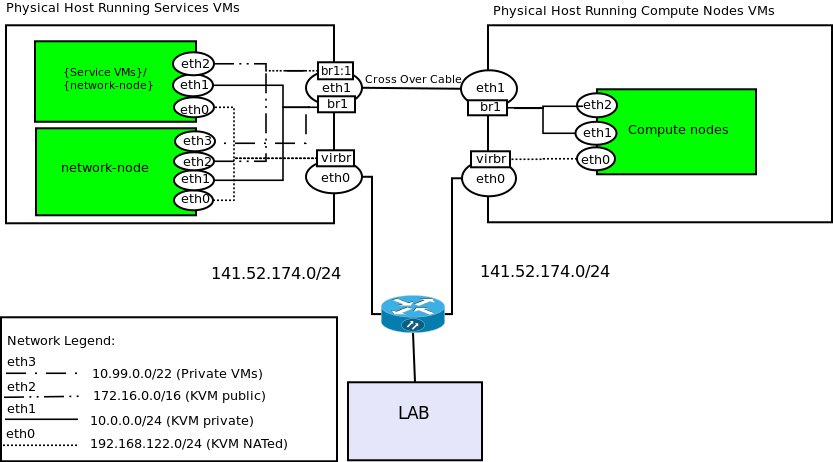
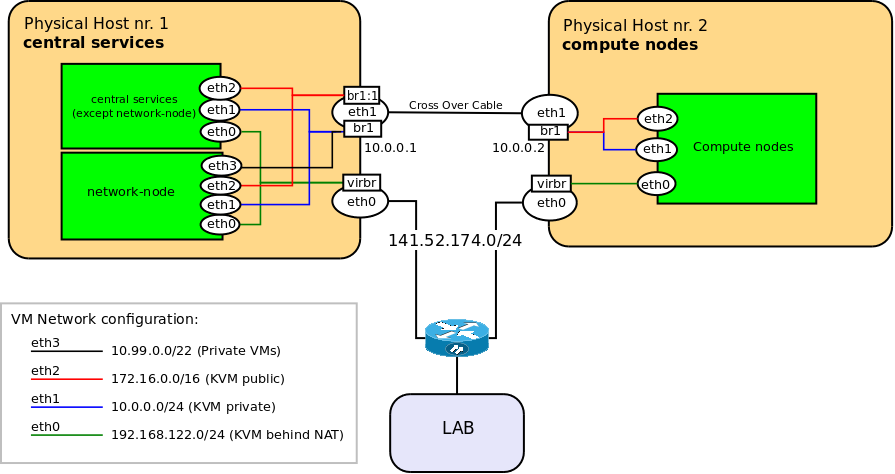
Cosmetic changes

diff --git a/tutorial/tutorial.rst b/tutorial/tutorial.rst
@@ -2,7 +2,8 @@ GridKa School 2013 - Training Session on OpenStack
 ==================================================
 
 This guide is to be used as reference for the installation of
-OpenStack `Grizzly` during the: `GridKa School 2013 - Training Session on OpenStack`. 
+OpenStack `Grizzly` during the: `GridKa School 2013 - Training Session
+on OpenStack`.
 
 
 OpenStack overview
@@ -12,10 +13,10 @@ This tutorial will show how to install the main components of
 OpenStack, specifically:
 
 MySQL
-    MySQL database is used together with the RabbitMQ messaging
-    system for storing and sharing information about the status of the
-    cloud. Alternatively the PostgreSQL software can be also used as database
-    backend. We will use default one: MySQL. 
+    MySQL database is used together with the RabbitMQ messaging system
+    for storing and sharing information about the status of the
+    cloud. Alternatively the PostgreSQL software can be also used as
+    database backend. We will use default one: MySQL.
 
 RabbitMQ
     Messaging service used for inter-process communication among
@@ -39,10 +40,10 @@ nova
 
 nova-network
     OpenStack service used to configure the network of the instances
-    and to optionally provide the so-called *Floating IPs*. IPs that can be
-    *attached* and *detached* from an instance while it is
-    already running. Those IPs are usually used for accessing the instances
-    from outside world. 
+    and to optionally provide the so-called *Floating IPs*. IPs that
+    can be *attached* and *detached* from an instance while it is
+    already running. Those IPs are usually used for accessing the
+    instances from outside world.
 
 nova-compute
     OpenStack service which runs on the compute node and is
@@ -70,35 +71,76 @@ Horizon
 Tutorial overview
 -----------------
 
-Each team will have two physical machines to work with.
+For this tutorial we will work in teams. Each team is composed of 2
+people and will have assigned two physical machines to work with.
 
-One of the nodes will run the 6 VMs hosting the central services. 
+One of the nodes will run the 6 VMs hosting the **central services**. 
 They are called as follows:
 
 * ``db-node``:  runs *MySQL* and *RabbitMQ*  
-* ``auth-node``: runs *keystone*
-* ``image-node``: runs *glance-api* and *glance-registry*
-* ``api-node``: runs *nova-api*, *horizon*, *nova-scheduler* and other **nova** related services
-* ``network-node``: runs *nova-network*
-* ``volume-node``: runs *cinder-api*, *cinder-scheduler* and *cinder-volume*
 
-while the other will run 2 VMs hosting the compute nodes for your stack:
+* ``auth-node``: runs *keystone*
+
+* ``image-node``: runs *glance-api* and *glance-registry*
+
+* ``api-node``: runs *nova-api*, *horizon*, *nova-scheduler* and other
+  **nova** related services
+
+* ``network-node``: runs *nova-network*
+
+* ``volume-node``: runs *cinder-api*, *cinder-scheduler* and
+  *cinder-volume*
+
+while the other will run 2 VMs hosting the **compute nodes** for your
+stack:
 
 * ``compute-1``: runs *nova-compute*
 * ``compute-2``: runs *nova-compute*
 
-**FIXME: how to assign the machines to the teams?**
-
 How to access the physical nodes
 ++++++++++++++++++++++++++++++++
 
-In order to access the different virtual machines and start working on the 
-configuration of OpenStack services listed above you will have to first login 
-on one of the nodes assigned to your group by doing::
+In order to access the different virtual machines and start working on
+the configuration of OpenStack services listed above you will have to
+first login on one of the nodes assigned to your group by doing::
 
         ssh root@gks-NNN.scc.kit.edu -p 24 -X
 
 where NNN is one of the numbers assigned to you.
+
+Physical machines are assigned as follow:
+
++---------+------------------+---------------+
+| team    | central services | compute nodes |
++=========+==================+===============+
+| team 01 | gks-125          | gks-126       |
++---------+------------------+---------------+
+| team 02 | gks-127          | gks-128       |
++---------+------------------+---------------+
+| team 03 | gks-129          | gks-130       |
++---------+------------------+---------------+
+| team 04 | gks-131          | gks-132       |
++---------+------------------+---------------+
+| team 05 | gks-137          | gks-138       |
++---------+------------------+---------------+
+| team 06 | gks-140          | gks-141       |
++---------+------------------+---------------+
+| team 07 | gks-142          | gks-143       |
++---------+------------------+---------------+
+| team 08 | gks-242          | gks-243       |
++---------+------------------+---------------+
+| team 09 | gks-244          | gks-245       |
++---------+------------------+---------------+
+| team 10 | gks-246          | gks-247       |
++---------+------------------+---------------+
+
+Network layout
+++++++++++++++
+
+Each phyiscal
+
+.. image:: ../images/network_diagram.png
+
 
 Virtual Machines
 ++++++++++++++++
@@ -167,6 +209,7 @@ Machines are setup with the same passwd: **user@gridka**
 
 Network Setup
 +++++++++++++
+
 
 The IP addresses of these machines are:
 
@@ -324,8 +367,8 @@ Install RabbitMQ from the ubuntu repository::
         
 RabbitMQ does not need any specific configuration. On a production
 environment, however, you might need to create a specific user for
-OpenStack services; in order to do that please check the official
-documentation `here <http://www.rabbitmq.com/documentation.html>`_.
+OpenStack services; in order to do that please check the `official
+documentation <http://www.rabbitmq.com/documentation.html>`_.
 
 To check if the RabbitMQ server is running use the ``rabbitmqctl``
 command::
@@ -1642,6 +1685,8 @@ FIXME: during the tutorial, it's probably better to install the
 package first, and then, during the installation, explain how
 nova-network works.
 
+FIXME: also cfr http://www.mirantis.com/blog/openstack-networking-flatmanager-and-flatdhcpmanager/
+
 ``nova-network`` configuration
 ~~~~~~~~~~~~~~~~~~~~~~~~~~~~~~
 
@@ -1853,12 +1898,26 @@ Nova-compute
 In the next few rows we try to briefly explain what happens behind the scene when a new request 
 for starting an OpenStack instance is done. Note that this is very high level description. 
 
-1) The OpenStack API, EC2 API or the Horizon Web Interface (based again on OpenStack APIs) are used for creating the new instance request.
-2) Authentication is performed by keystone checking if the user is authorized for the requested operation.
+1) The OpenStack API, EC2 API or the Horizon Web Interface (based
+   again on OpenStack APIs) are used for creating the new instance
+   request.
+
+2) Authentication is performed by keystone checking if the user is
+   authorized for the requested operation.
+
 3) Message is then send to the scheduler with the new request.
-4) cheduler writes the message in the RabbitMQ queue asking a specific host matching the requirements to start the instance.
-5) The compute reads the message from the queue and starts booting the new instance asking for a fixed IP to the network service.
-6) The instance is at the end available from the outside world through the assigned IP. 
+
+4) cheduler writes the message in the RabbitMQ queue asking a specific
+   host matching the requirements to start the instance.
+
+5) The compute reads the message from the queue and starts booting the
+   new instance asking for a fixed IP to the network service.
+
+   **FIXME:** what about downloading image from glance and mounting
+   the disk from cinder? What about networking? Also cfr http://www.laurentluce.com/posts/openstack-nova-internals-of-instance-launching/
+
+6) The instance is at the end available from the outside world through
+   the assigned IP.
 
 **FIXME: To be checked the described workflow***
 
@@ -2081,7 +2140,8 @@ you can check that the keypair has been created with::
     | gridka-api-node | fa:86:74:77:a2:55:29:d8:e7:06:4a:13:f7:ca:cb:12 |
     +-----------------+-------------------------------------------------+
 
-Let's get the ID of the available images, flavors and security groups::
+Let's get the ID of the available images, flavors and security
+groups::
 
     root@api-node:~# nova image-list
     +--------------------------------------+--------------+--------+--------+
@@ -2143,7 +2203,8 @@ Now we are ready to start our first instance::
     | metadata                            | {}                                   |
     +-------------------------------------+--------------------------------------+
 
-This command returns immediately, even if the OpenStack instance is not yet started::
+This command returns immediately, even if the OpenStack instance is
+not yet started::
 
     root@api-node:~# nova list
     +--------------------------------------+----------+--------+----------+
@@ -2201,9 +2262,10 @@ You can attach a volume to a running instance easily::
     | volumeId | 180a081a-065b-497e-998d-aa32c7c295cc |
     +----------+--------------------------------------+
 
-Inside the instnace, a new disk named ``/dev/vdb`` will appear. This disk is 
-*persistent*, which means that if you terminate the instance and then you attach
-the disk to a new instance, the content of the volume is persisted.
+Inside the instnace, a new disk named ``/dev/vdb`` will appear. This
+disk is *persistent*, which means that if you terminate the instance
+and then you attach the disk to a new instance, the content of the
+volume is persisted.
 
 
 Horizon
@@ -2240,8 +2302,10 @@ Recap
 Small recap on what has to be done for a service installation:
 
 * create database,
-* create user for the this database in way that in can connects and configure the service.
-* create user for the service which has role admin in the tenant service
+* create user for the this database in way that in can connects and
+  configure the service.
+* create user for the service which has role admin in the tenant
+  service
 * define the endpoint
 
 
@@ -2251,10 +2315,9 @@ References
 As starting reference has been used the following `tutorial
 <https://github.com/mseknibilel/OpenStack-Grizzly-Install-Guide/blob/master/OpenStack_Grizzly_Install_Guide.rst>`_.
 
-We adapted the tutorial above with what we considered necessary for our purposes and for installing OpenStack on
-6 hosts.
+We adapted the tutorial above with what we considered necessary for
+our purposes and for installing OpenStack on 6 hosts.
 
-The official Grizzly tutorial can be found `here
-<http://docs.openstack.org/grizzly/openstack-compute/install/apt/content/>`_.
+The `official Grizzly tutorial <http://docs.openstack.org/grizzly/openstack-compute/install/apt/content/>`_.
 
 .. _`Openstack Compute Administration Guide`: http://docs.openstack.org/trunk/openstack-compute/admin/content/index.html
